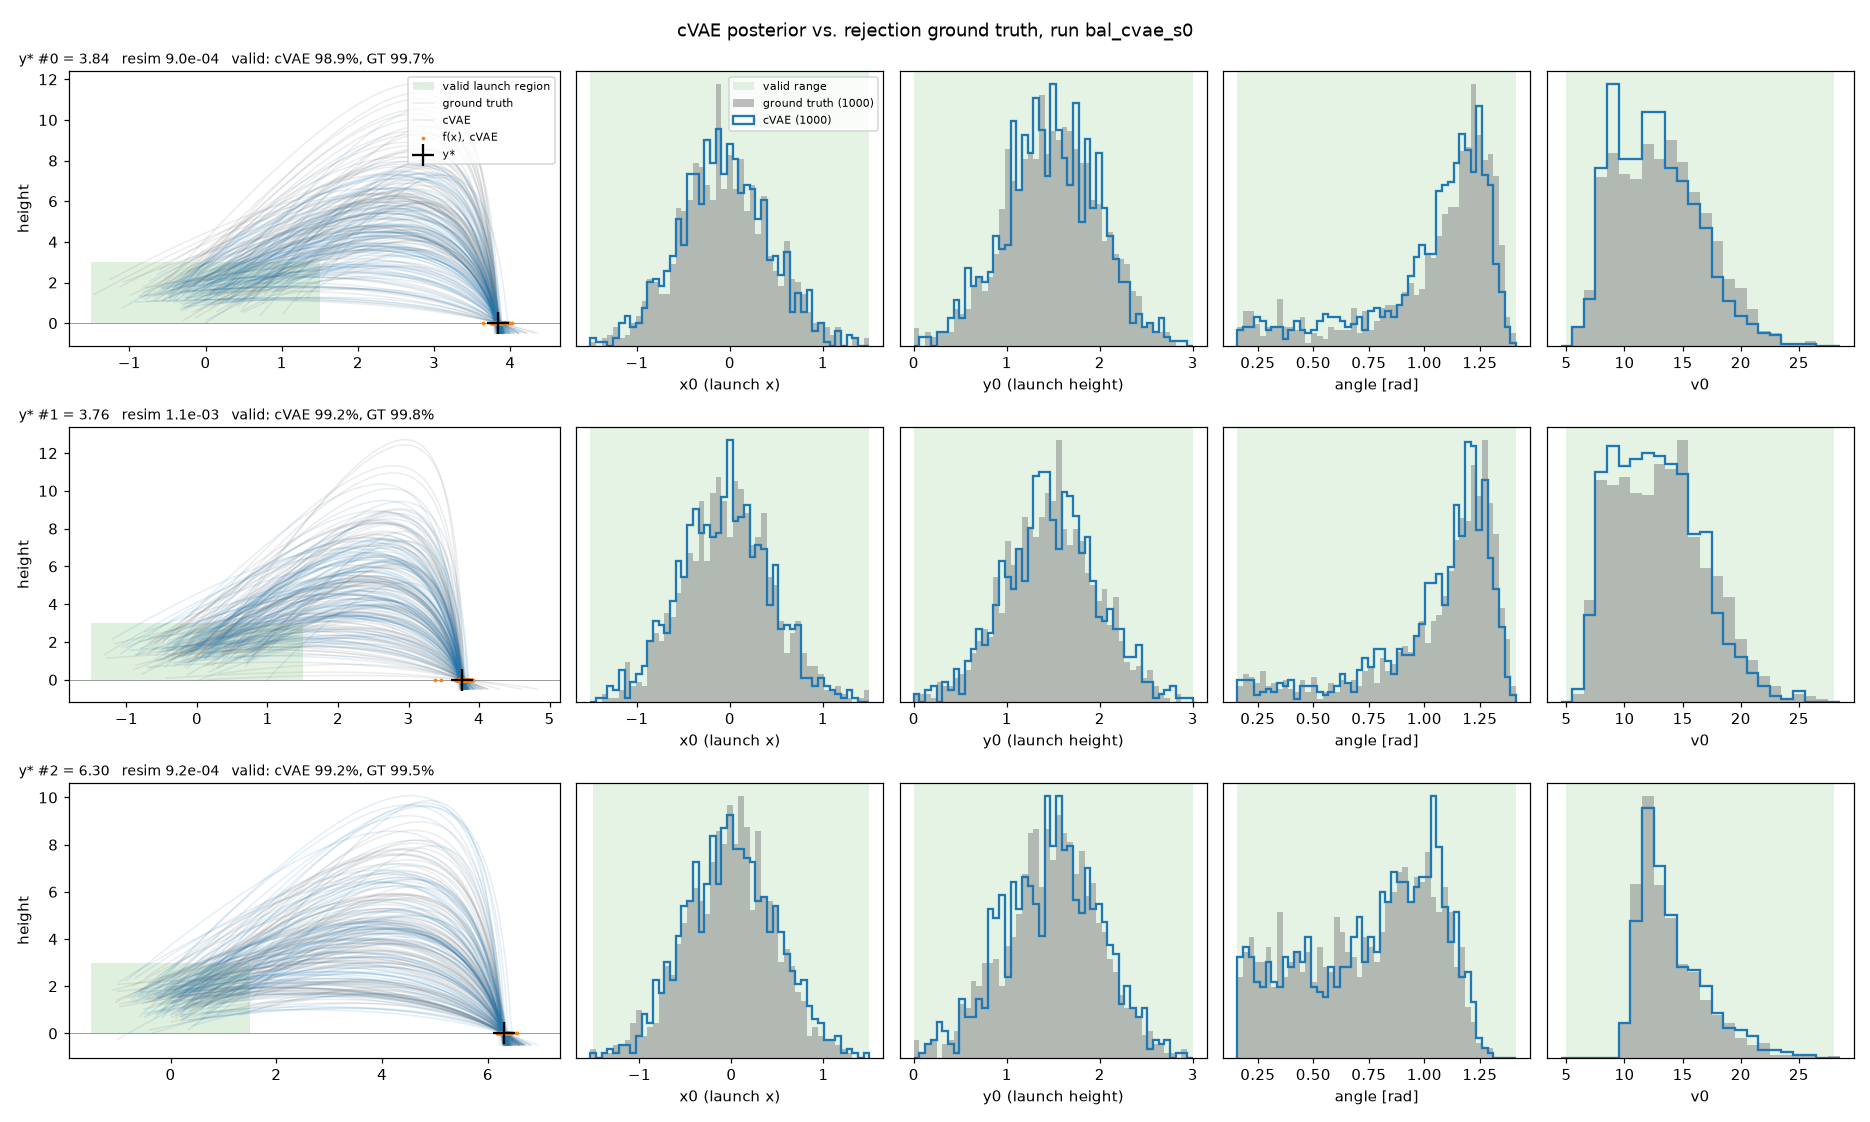
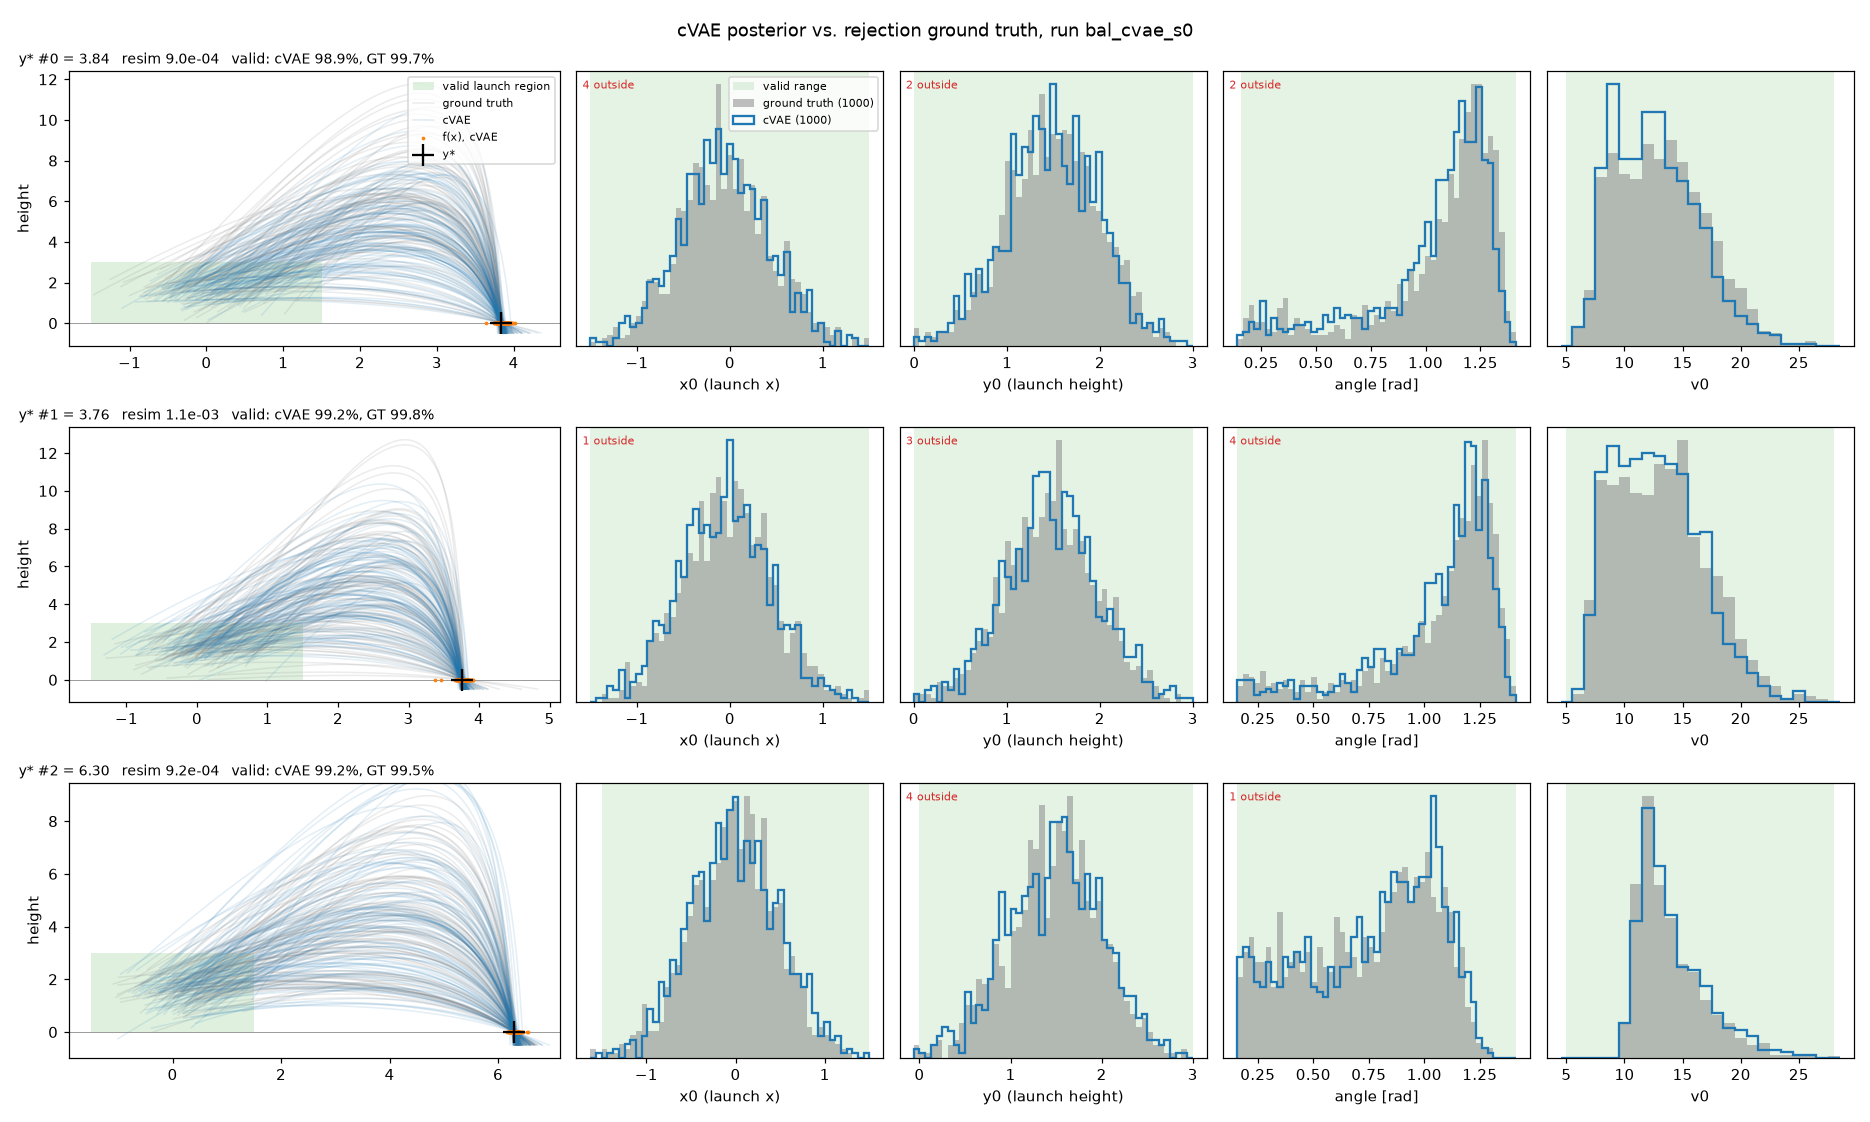
Posterior figures for INN, INN (L2+MMD), cINN, iLNN and FIF p3; outlier-robust axes
plot_posterior.py gets a loader for the INN family (evaluate_inn / evaluate_ilnn
load_run). Histogram and left-panel ranges now follow the ground truth and the
valid region, so far model outliers are counted ('N outside') instead of
squashing the plot; all helper figures are regenerated with it.

diff --git a/experiments/plot_posterior.py b/experiments/plot_posterior.py
@@ -16,7 +16,7 @@ The row title gives the fraction of samples inside all four bounds.
 Any model plugs in through `posterior_figure(problem, sample, label, ...)` with
 `sample(y_star (M, dim_y), n) -> x (M, n, 4)`. The command line loads a trained
 run (MDN, hand-rolled FMPE, BayesFlow FMPE, diffusion, standard AE, cVAE,
-invertible AE or FIF) and calls it:
+invertible AE, FIF, INN, INN (L2+MMD), cINN or iLNN) and calls it:
 
     .venv/bin/python experiments/plot_posterior.py kin_K16_s0
     .venv/bin/python experiments/plot_posterior.py bal_bf_fmpe_s0 --sampler euler:32
@@ -69,6 +69,16 @@ def valid_fraction(x, ranges):
     return ok.mean()
 
 
+def histogram_range(x, gt, valid):
+    """Histogram range: the ground truth's bulk and the valid range, widened to the model's bulk
+    by at most half that span, so a few far outliers cannot squash the plot."""
+    lo, hi = np.quantile(gt, [0.002, 0.998])
+    lo, hi = min(lo, valid[0]), max(hi, valid[1])
+    pad = 0.5 * (hi - lo)
+    mlo, mhi = np.nanquantile(x, [0.002, 0.998])
+    return max(min(lo, mlo), lo - pad), min(max(hi, mhi), hi + pad)
+
+
 def draw_trajectories(ax, sim, x, color, alpha, label):
     xs, ys = sim.trajectories_from_parameters(x)
     for i, (xt, yt) in enumerate(zip(xs, ys)):
@@ -88,6 +98,7 @@ def draw_left(ax, problem, sim, x, gt, resim, y, ranges, label, n_draw):
         ax.add_patch(plt.Rectangle((xl, yl), xh - xl, yh - yl, color=VALID_COLOR, alpha=0.15, lw=0,
                                    label='valid launch region'))
         draw_trajectories(ax, sim, gt[:n_draw], 'gray', 0.15, 'ground truth')
+        frame = ax.dataLim.frozen()
         draw_trajectories(ax, sim, x[:n_draw], 'tab:blue', 0.12, label)
         ax.axhline(0, color='gray', lw=0.5)
         ax.scatter(resim[:, 0], np.zeros(len(resim)), s=2, color='tab:orange', zorder=3, label=f'f(x), {label}')
@@ -98,10 +109,15 @@ def draw_left(ax, problem, sim, x, gt, resim, y, ranges, label, n_draw):
         ax.add_patch(plt.Rectangle((-0.06, lo), 0.12, hi - lo, color=VALID_COLOR, alpha=0.35, lw=0,
                                    label='valid rail range'))
         draw_arms(ax, sim, gt[:n_draw], 'gray', 0.15, 'ground truth')
+        frame = ax.dataLim.frozen()
         draw_arms(ax, sim, x[:n_draw], 'tab:blue', 0.12, label)
         ax.scatter(resim[:, 0], resim[:, 1], s=2, color='tab:orange', zorder=3, label=f'f(x), {label}')
         ax.scatter(*y, marker='+', s=200, color='k', zorder=4, label='y*')
         ax.set_aspect('equal', adjustable='box')
+    # Frame of the valid region + ground truth, so far-off model samples cannot shrink the panel.
+    pad_x, pad_y = 0.05 * frame.width, 0.05 * frame.height
+    ax.set_xlim(frame.x0 - pad_x, frame.x1 + pad_x)
+    ax.set_ylim(frame.y0 - pad_y, frame.y1 + pad_y)
 
 
 def posterior_figure(problem, sample, label, indices=(0, 1, 2), n=1000, n_draw=100, suptitle=None, out=None):
@@ -134,8 +150,7 @@ def posterior_figure(problem, sample, label, indices=(0, 1, 2), n=1000, n_draw=1
             row[0].legend(loc='upper left', bbox_to_anchor=(1.02, 1), fontsize=7)
 
         for d, axd in enumerate(row[1:]):
-            lo, hi = np.nanquantile(np.concatenate([x[:, d], gt[:, d]]), [0.002, 0.998])
-            lo, hi = min(lo, ranges[d][0]), max(hi, ranges[d][1])  # show the valid range's edges
+            lo, hi = histogram_range(x[:, d], gt[:, d], ranges[d])
             if problem == 'ballistics' and d == 3:  # integer v0: one bin per value
                 bins = np.arange(np.floor(lo) - 0.5, np.ceil(hi) + 1.5)
             else:
@@ -144,6 +159,10 @@ def posterior_figure(problem, sample, label, indices=(0, 1, 2), n=1000, n_draw=1
             axd.hist(gt[:, d], bins, density=True, alpha=0.5, color='gray', label=f'ground truth ({len(gt)})')
             axd.hist(x[:, d], bins, density=True, histtype='step', color='tab:blue', lw=1.5,
                      label=f'{label} ({len(x)})')
+            outside = np.sum((x[:, d] < bins[0]) | (x[:, d] > bins[-1]) | np.isnan(x[:, d]))
+            if outside:  # far outliers are counted, not drawn, so the bulk stays readable
+                axd.text(0.02, 0.97, f'{outside} outside', transform=axd.transAxes, ha='left', va='top',
+                         fontsize=7, color='tab:red')
             axd.set_xlabel(NAMES[problem][d])
             axd.set_yticks([])
         if r == 0:
@@ -226,9 +245,29 @@ def load_fif(run, args):
     return cfg['problem'], sample, 'FIF', f'fif_posterior_{run}', f'FIF posterior vs. rejection ground truth, run {run}'
 
 
+INN_LABELS = {'inn_ml': 'INN', 'inn_l2mmd': 'INN (L2+MMD)', 'cinn': 'cINN',
+              'ilnn_ml': 'iLNN (ML)', 'ilnn_mmd': 'iLNN (MMD)'}
+
+
+def load_inn(run, args):
+    """INN, INN (L2+MMD), cINN (experiments/train_inn.py) or iLNN (train_ilnn.py) run."""
+    kind = next(k for k in INN_LABELS if f'_{k}_' in run)
+    if kind.startswith('ilnn'):
+        from experiments.evaluate_ilnn import load_run
+    else:
+        from experiments.evaluate_inn import load_run
+    model, cfg = load_run(run)
+    label = INN_LABELS[kind]
+    sample = lambda y, n: model.sample(torch.as_tensor(y, dtype=torch.float32), n).detach().cpu().numpy()  # noqa: E731
+    return (cfg['problem'], sample, label, f'{kind.split("_")[0].replace("cinn", "inn")}_posterior_{run}',
+            f'{label} posterior vs. rejection ground truth, run {run}')
+
+
 def load(run, args):
     if '_bf_' in run:
         return load_bayesflow(run, args)
+    if any(f'_{kind}_' in run for kind in INN_LABELS):
+        return load_inn(run, args)
     if any(f'_{family}_' in run for family in AE_LABELS):
         return load_autoencoder(run, args)
     if '_fif' in run:
